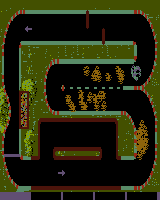
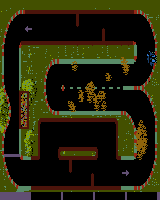
Improved maps with the help of Carl. Removed multi-disk support from Apple. Optimized memory usage on Apple.

diff --git a/projects/slicks/src/interface.c b/projects/slicks/src/interface.c
@@ -281,6 +281,10 @@ void InputField(unsigned char col, unsigned char row, char *buffer, unsigned cha
 #endif
 }
 
+#ifdef __APPLE2__
+  #pragma code-name("LOWCODE")
+#endif
+
 #if defined __LYNX__
 const char *musicList[4] = {"chase.mus","driven.mus","stroll.mus","whirlwnd.mus"};
 unsigned char musicSel = 0;
@@ -442,6 +446,18 @@ unsigned char MenuPause()
 }
 #endif
 
+// Display lap numbers
+void PrintLap(unsigned char i)
+{
+	if (cars[i].lap < 1) { return; }
+	inkColor = inkColors[i];
+	PrintNum((i+2)*8-3, CHR_ROWS-1, cars[i].lap);
+}
+
+#ifdef __APPLE2__
+  #pragma code-name("LC")
+#endif
+
 // Print score after round ends
 signed int score[4];
 void PrintScores()
@@ -568,24 +584,12 @@ void PrintRace()
 	paperColor = BLACK;
 }
 
-#ifdef __APPLE2__
-  #pragma code-name("LC")
-#endif
-
 // In-case connection drops out...
 void PrintTimedOut()
 {
 	inkColor = WHITE;
     PrintStr(10,12, " CONNECTION TIMED-OUT ");
     sleep(3);
-}
-
-// Display lap numbers
-void PrintLap(unsigned char i)
-{
-	if (cars[i].lap < 1) { return; }
-	inkColor = inkColors[i];
-	PrintNum((i+2)*8-3, CHR_ROWS-1, cars[i].lap);
 }
 
 // Sub-function for Animating Sprites in Main Menu

diff --git a/projects/slicks/src/game.c b/projects/slicks/src/game.c
@@ -179,24 +179,6 @@ void GameReset()
 	paperColor = BLACK;
 }
 
-#if defined __APPLE2__
-// Check if file exists on disk
-void CheckFileExists(const char* filename)
-{
-	FILE* fp = NULL;
-	while (fp == NULL) {
-		fp = fopen(filename, "rb");
-		if (fp == NULL) { 
-			EnterBitmapMode();
-			PrintStr(2,12," PLEASE SWAP DISK AND PRESS ANY KEY "); 
-			cgetc();
-			ExitBitmapMode();
-		}
-	}
-	fclose(fp);	
-}
-#endif
-
 // Initialize Game
 void GameInit(const char* map)
 {
@@ -220,9 +202,6 @@ void GameInit(const char* map)
 	buffer[len+4] = 0;
 	
 	// Load Bitmap and backup chat row
-#if defined __APPLE2__	
-	CheckFileExists(&buffer[0]);
-#endif
 	LoadBitmap(&buffer[0]);
 	BackupChatRow();
 

diff --git a/projects/slicks/src/slicks.c b/projects/slicks/src/slicks.c
@@ -43,9 +43,7 @@
 
 // See interface.c
 extern unsigned char gameMap, gameMode, gameStep;
-#if defined __APPLE2__
-  void CheckFileExists(const char* filename);
-#elif defined __LYNX__
+#if defined __LYNX__
   void NextMusic(unsigned char blank);
 #endif
 
@@ -82,9 +80,6 @@ int main (void)
 	// Main Loop
 	while (1) {
         // Load menu screen
-	#if defined __APPLE2__
-		CheckFileExists("menu.img");
-	#endif
         LoadBitmap("menu.img");
 		
 		// Show menu
